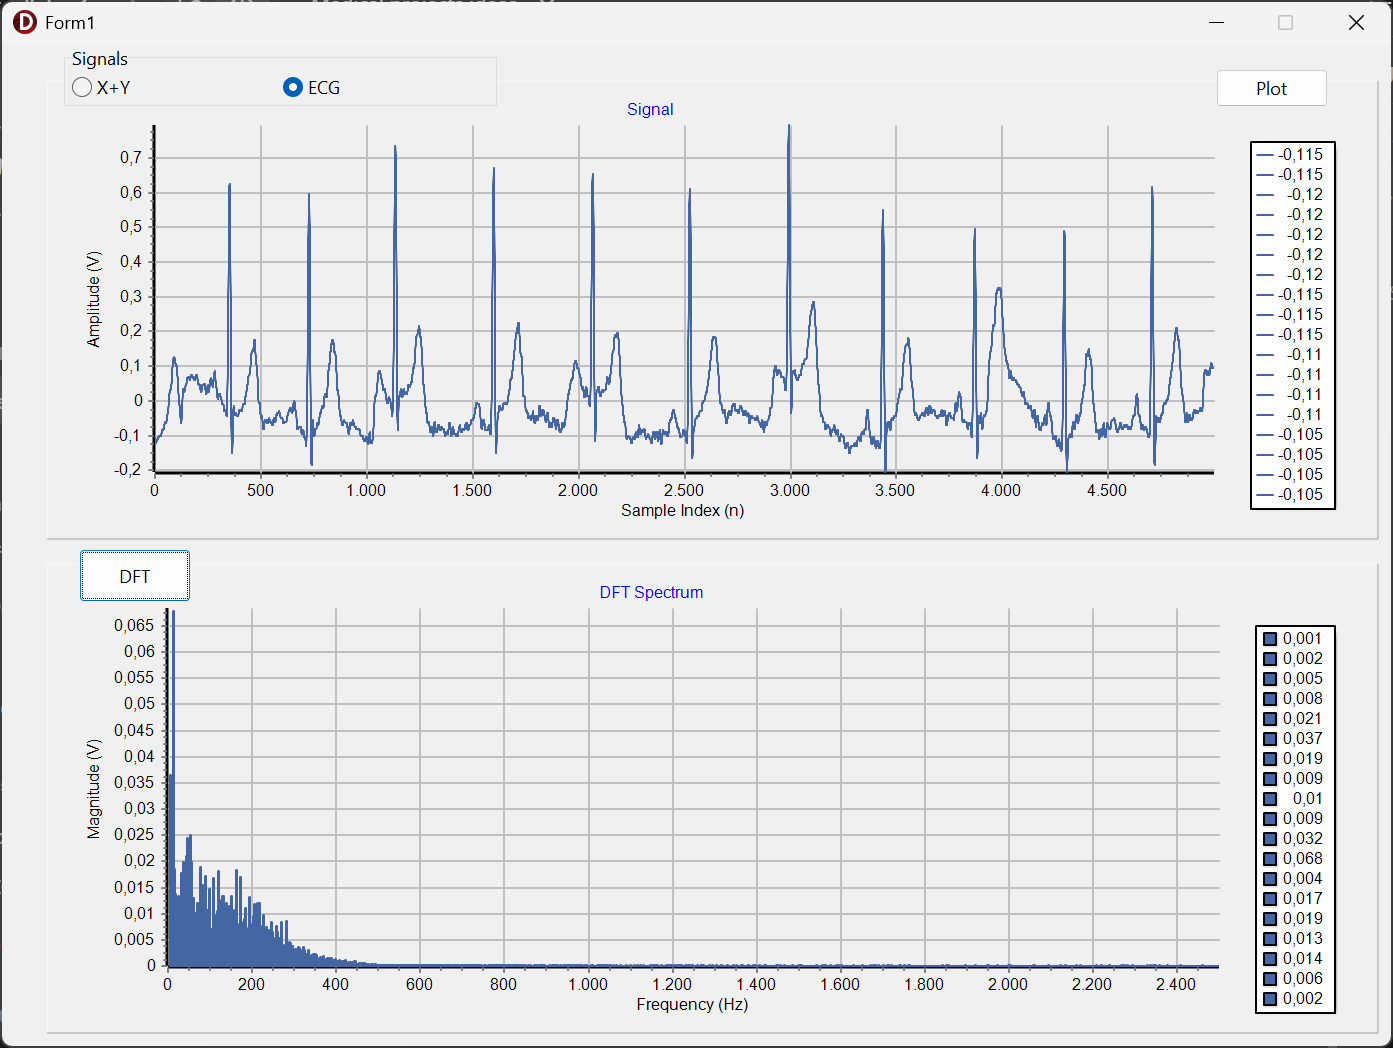
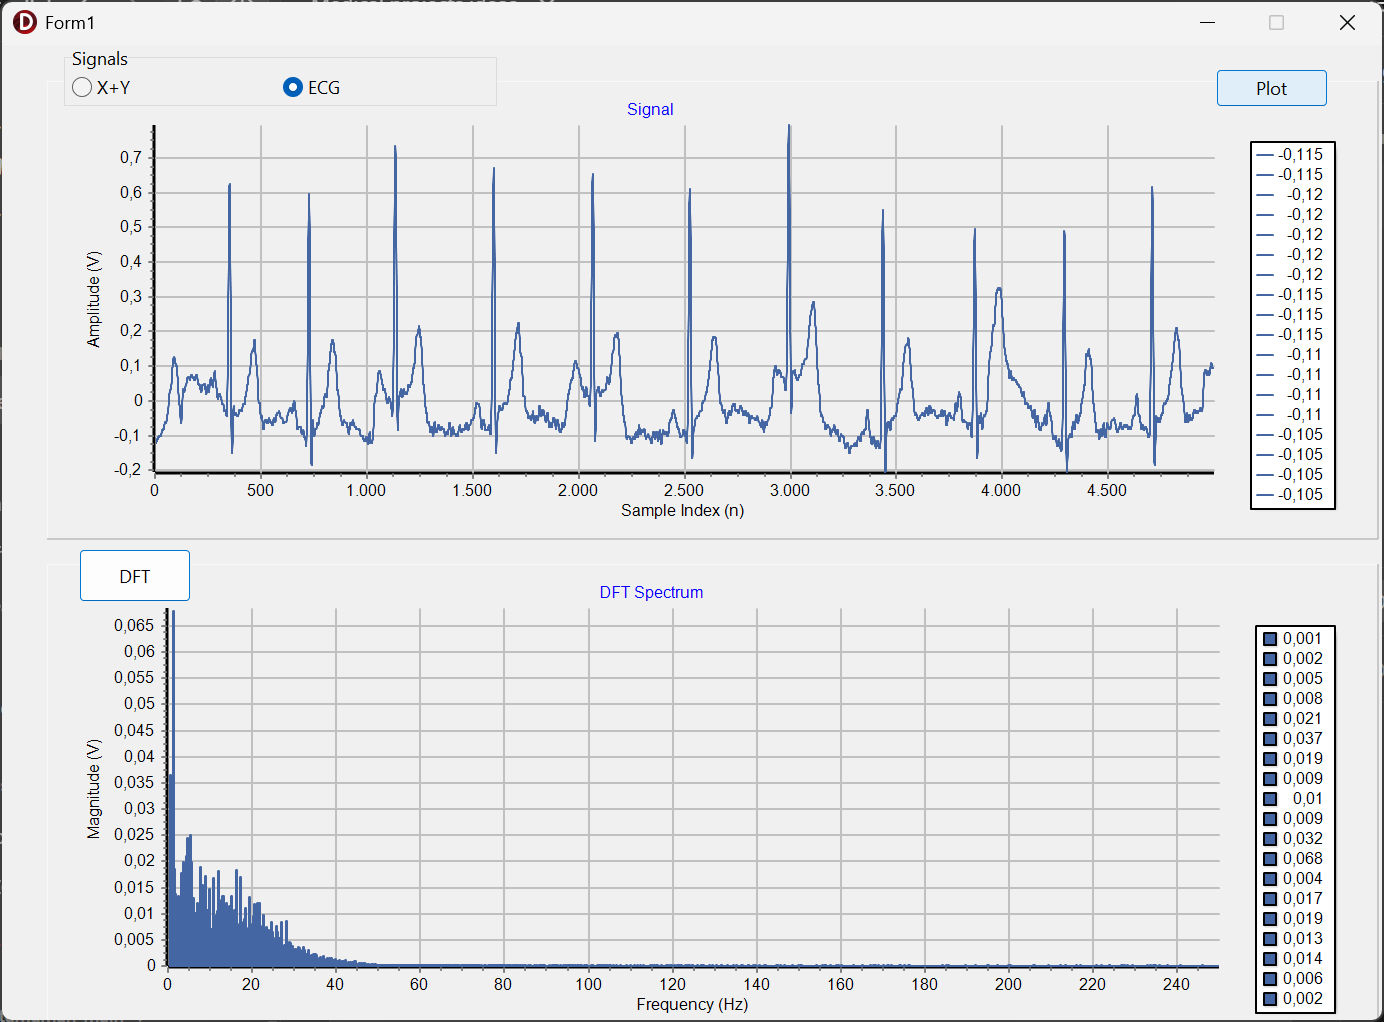
Plot DFT spectrum in Hz (k * fs / N)

diff --git a/README.md b/README.md
@@ -24,7 +24,14 @@ Im{X[k]} = -Σ x[n] · sin(2π·k·n / N)
 |X[k]|   = √(Re² + Im²) / N        (k = 0, DC)
 |X[k]|   = √(Re² + Im²) / (N/2)    (k > 0)
 ```
-The spectrum is plotted for `k = 0 … N/2 − 1` as a bar chart. For the ECG file, bin `k` is `k · fs / N = k · 0.1 Hz`.
+The spectrum is plotted for `k = 0 … N/2 − 1` as a bar chart, with each bin converted to Hz:
+```
+f = k · fs / N
+```
+| Signal | fs | N | Bin width | Range shown |
+|---|---|---|---|---|
+| X+Y | 256 Hz | 256 | 1 Hz | 0–127 Hz |
+| ECG | 500 Hz | 5000 | 0.1 Hz | 0–249.9 Hz |
 
 > The ECG values use a decimal comma (`-0,115`), so `StrToFloat` needs a comma-decimal Windows locale (e.g. Indonesian).
 
